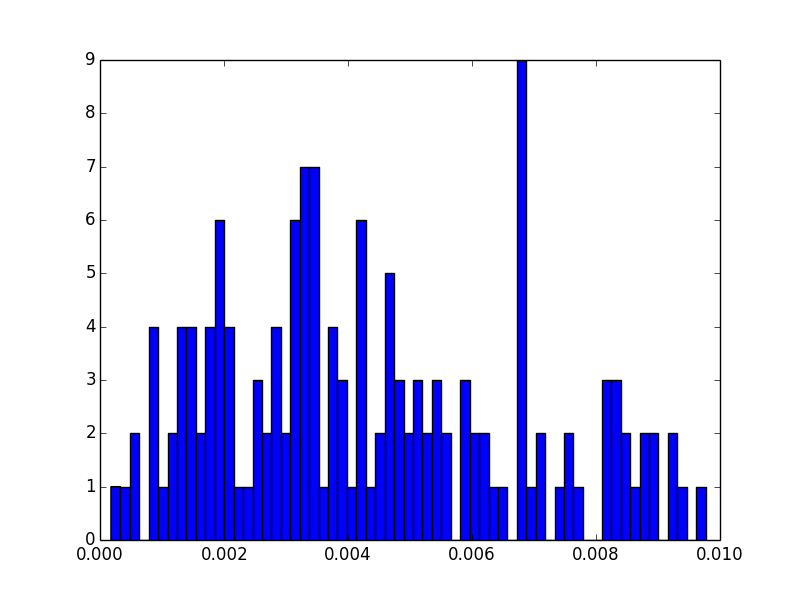
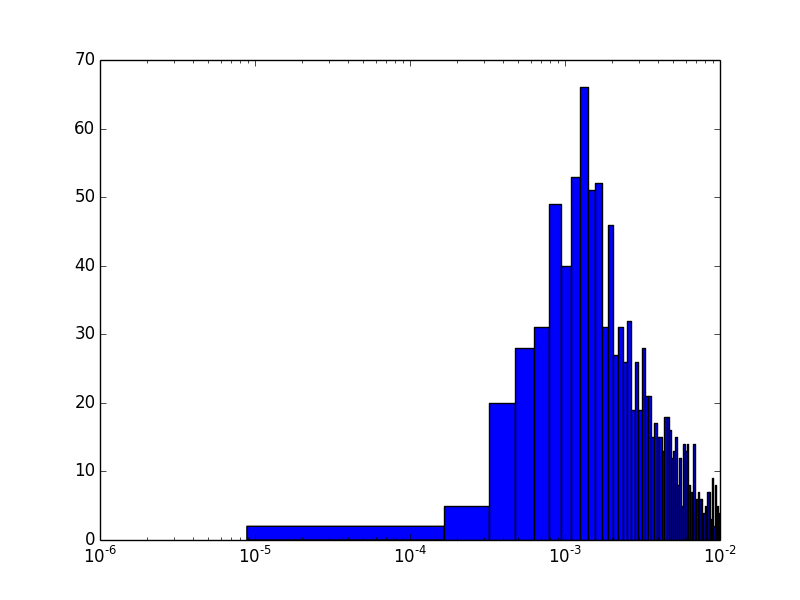
getseries

diff --git a/getText.py b/getText.py
@@ -4,7 +4,15 @@ import csv
 import datetime
 import time
 
-def isGood(c, g):
+earliest = '1435680000'
+
+def isGood(c, g, t):
+	'''
+	if t == '20150701':
+		return False
+	'''
+	if t < earliest:
+		return False
 	if len(c) <= 10:
 		return False
 	if max(c) <= 100 and max(g) <= 100:
@@ -65,6 +73,13 @@ begin = 0
 initsize = len(initiallist)
 '''
 
+csvfile = file('../oaInfo.csv', 'r')
+reader = csv.reader(csvfile)
+setdic = {}
+for line in reader:
+	setdic[line[0]] = line[11]
+noidlist = list()
+
 for line in data:
 	if line[0][0] != '2':
 		print line[0][0]
@@ -73,14 +88,15 @@ for line in data:
 		if not first:
 			tempcome.append(come)
 			tempgo.append(go)
-			if isGood(tempcome, tempgo):
-				namelist.append(lastid)
-				comelist.append(tempcome)
-				golist.append(tempgo)
-				timelist.append(temptime)
-				timestring.append(time+'-'+lasttime)
-			else:
-				bad += 1
+			if setdic.has_key(lastid):
+				if isGood(tempcome, tempgo, setdic[lastid]):
+					namelist.append(lastid)
+					comelist.append(tempcome)
+					golist.append(tempgo)
+					timelist.append(temptime)
+					timestring.append(time+'-'+lasttime)
+				else:
+					bad += 1
 		else:
 			first = False
 		lastid = line[4]

diff --git a/pd.py b/pd.py
@@ -60,6 +60,7 @@ print b
 print e
 print bins
 pl.hist(np.array(alist), bins)
+pl.xscale('log')
 pl.savefig('alpha.png')
 pl.cla()
 
@@ -67,6 +68,7 @@ b = min(blist)
 e = max(blist)
 bins = np.linspace(b, e, binnum)
 pl.hist(np.array(blist), bins)
+pl.xscale('log')
 pl.savefig('beta.png')
 pl.cla()
 
